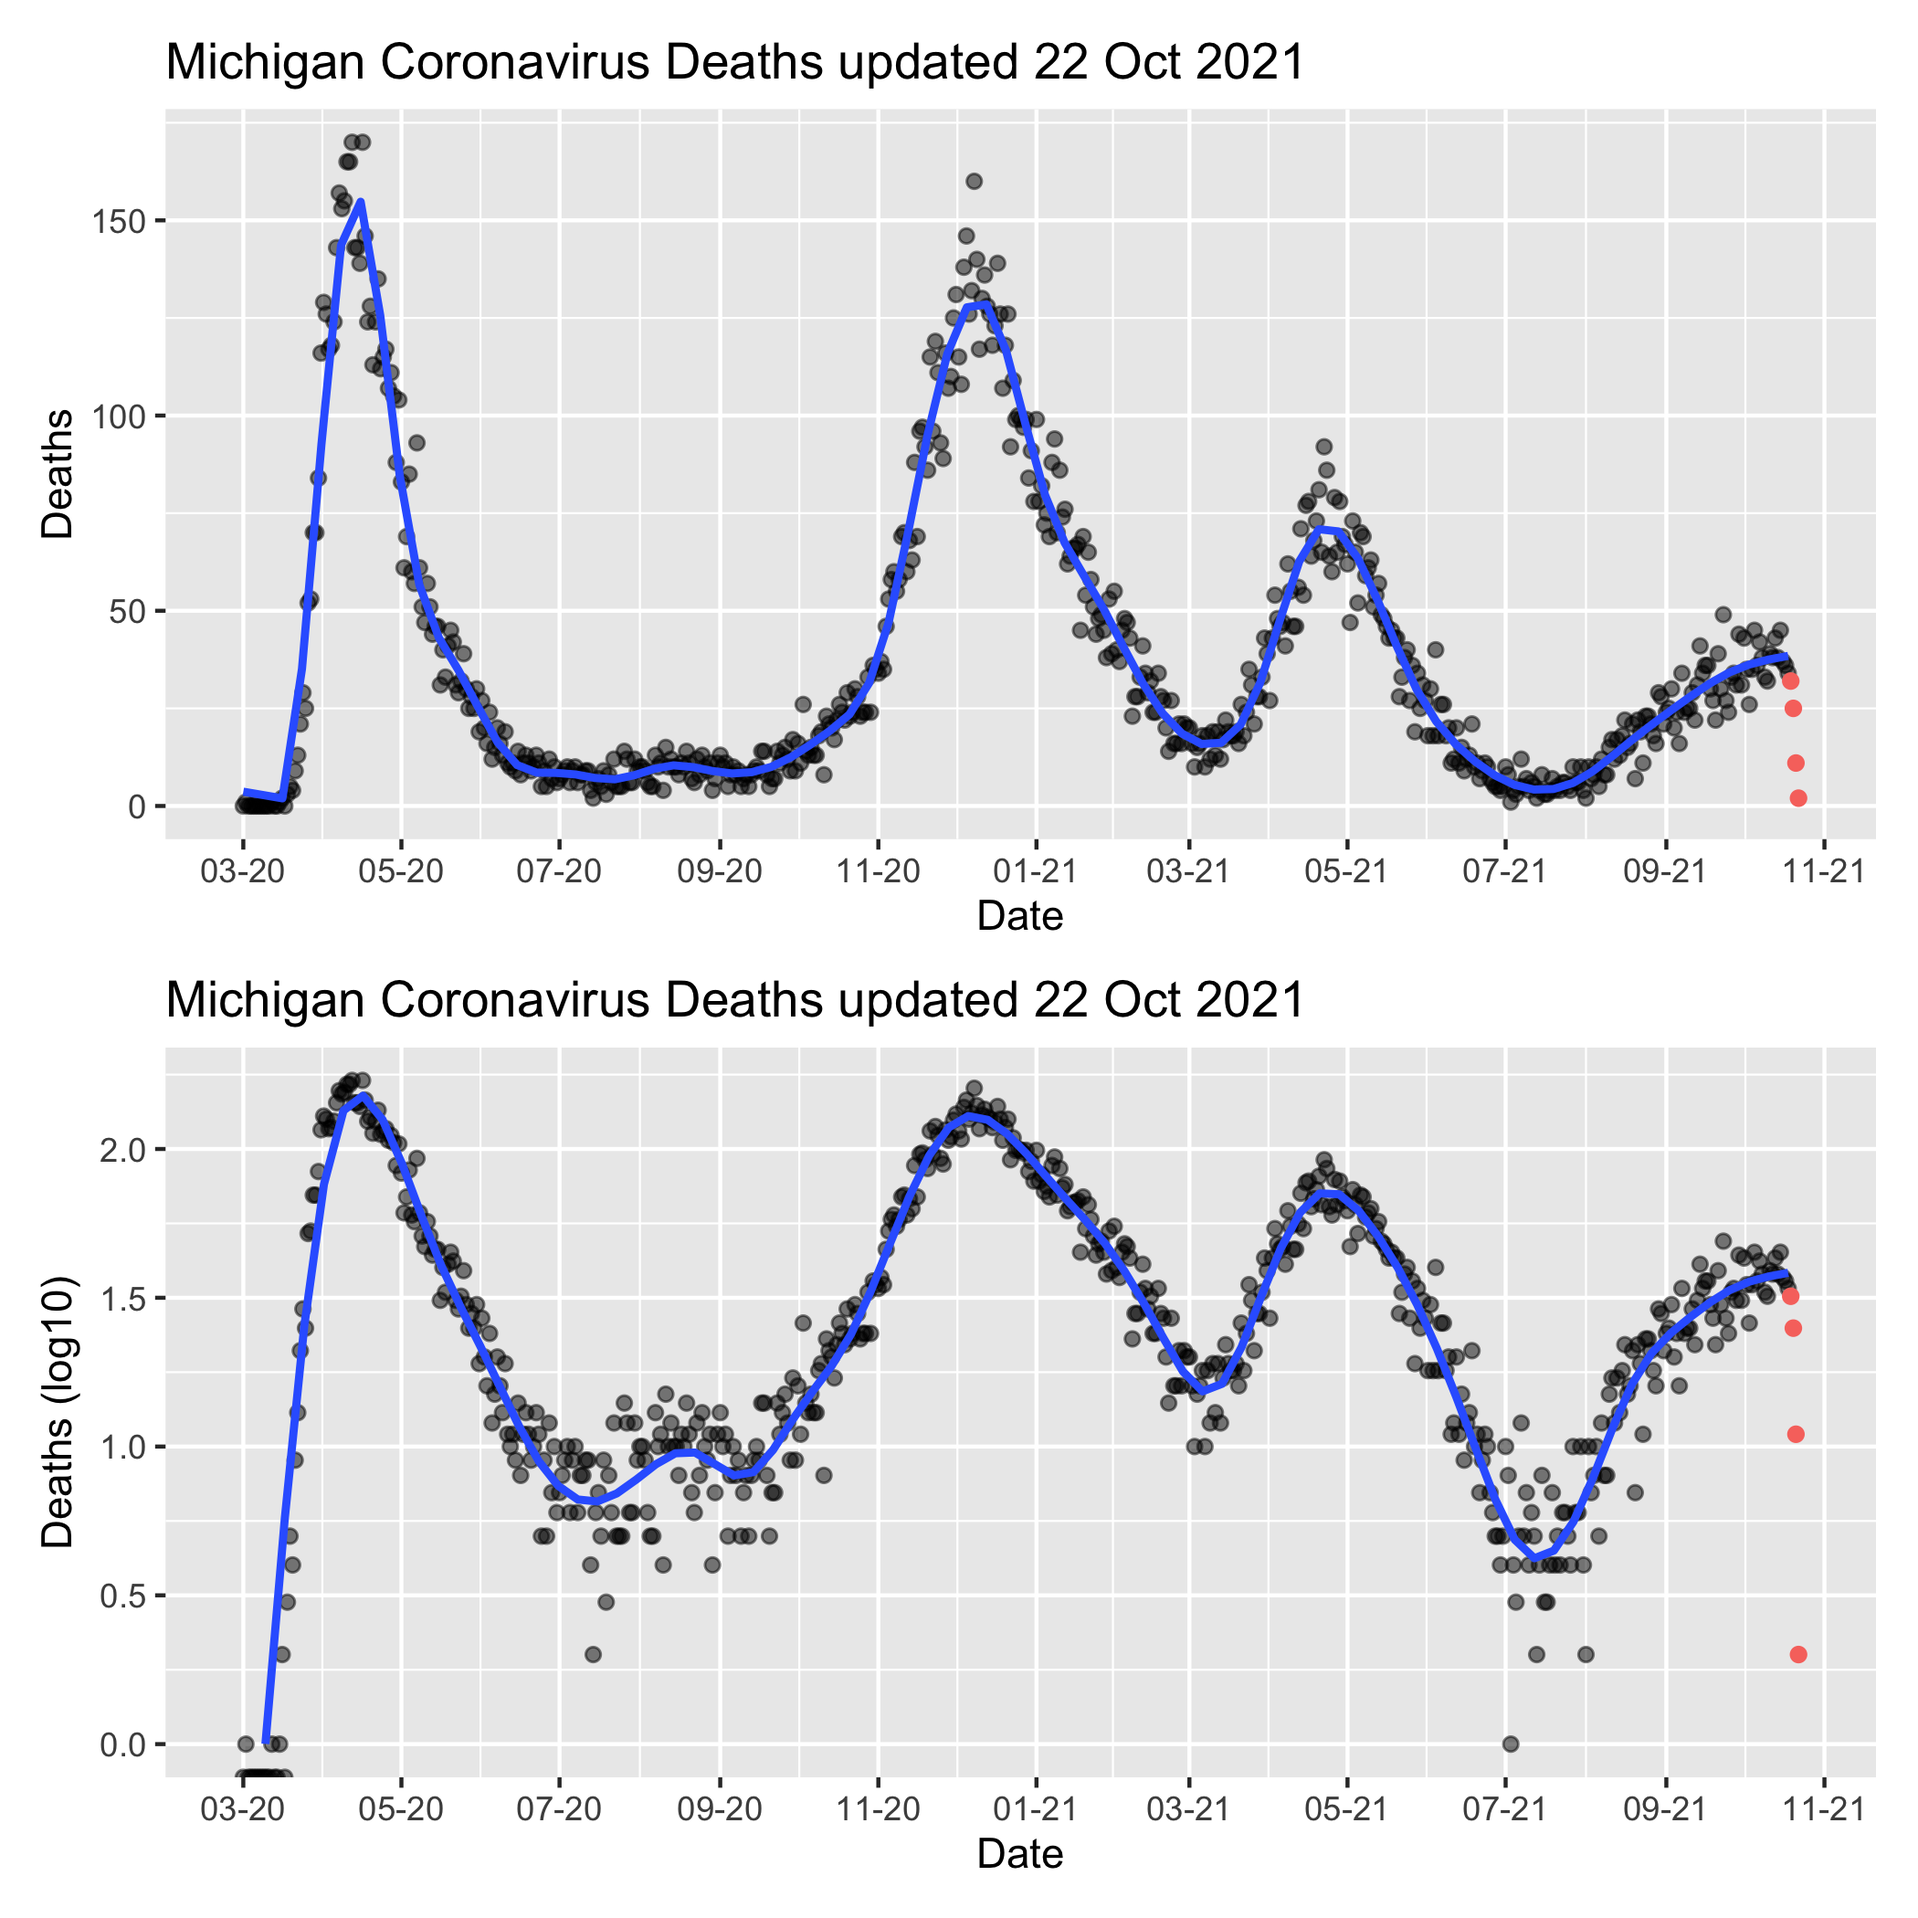
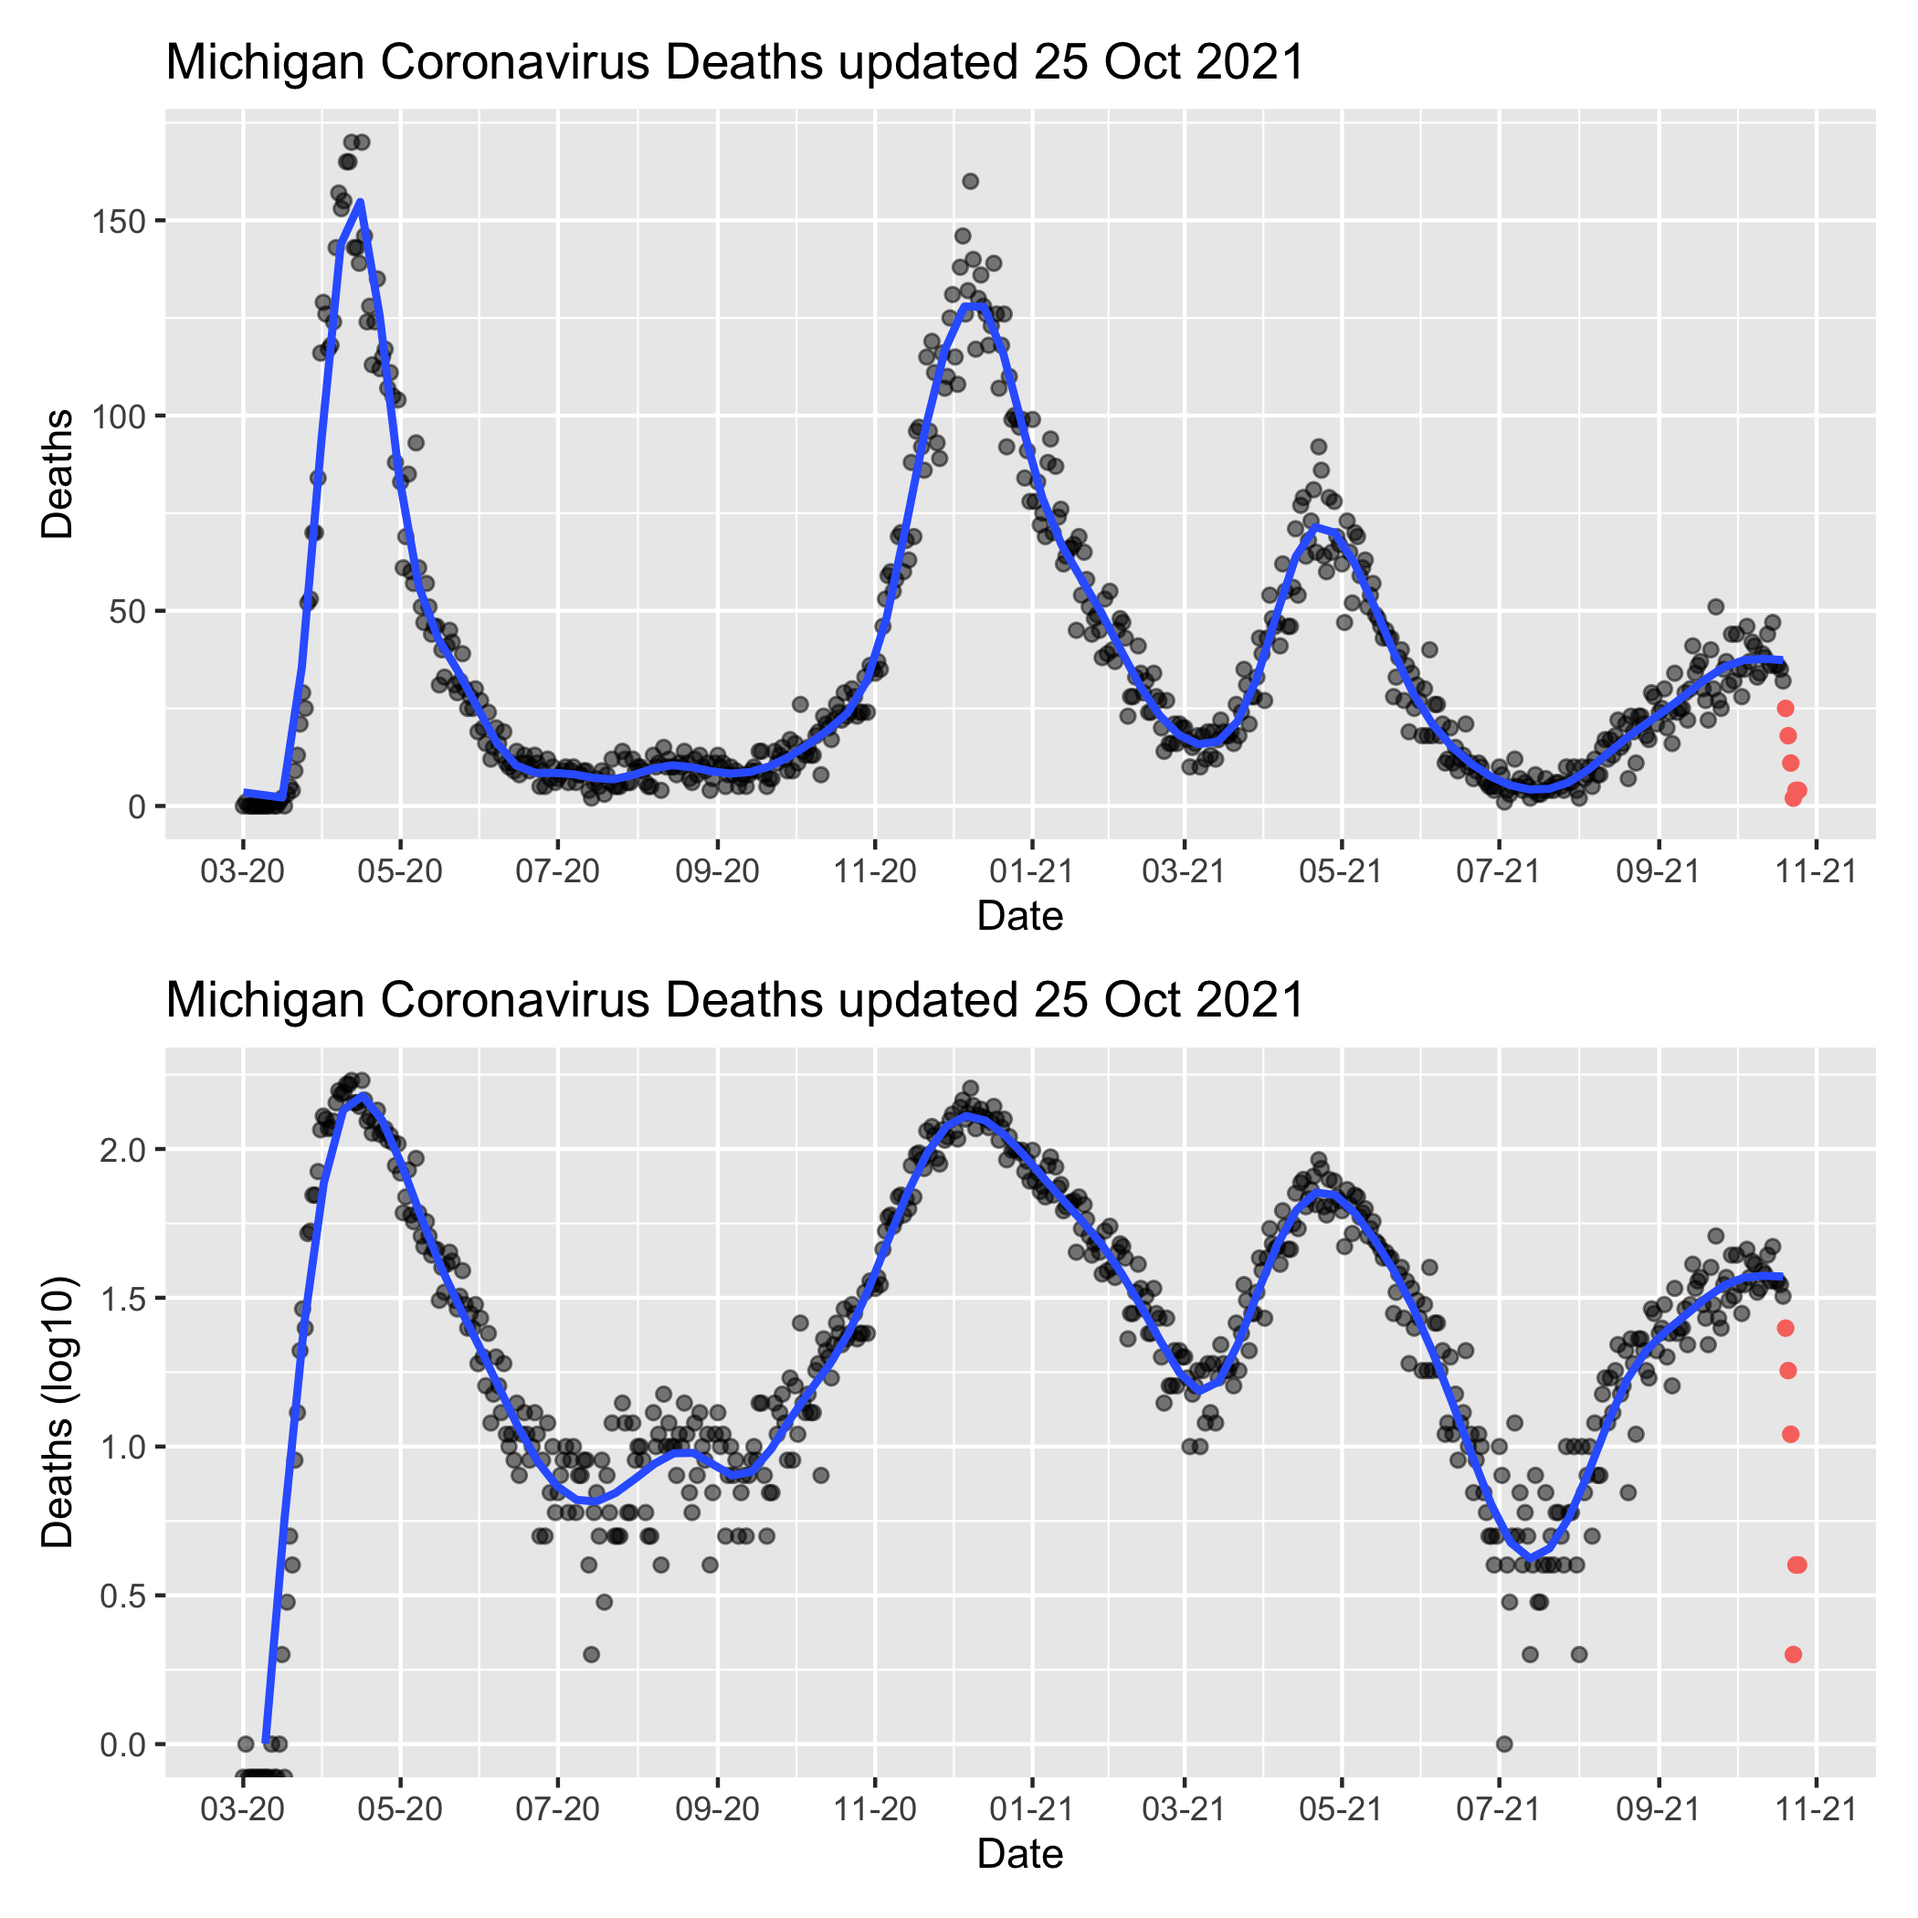
Oct-26 2021 11:59 update

diff --git a/MiCorona.md b/MiCorona.md
@@ -1,7 +1,7 @@
 Michigan COVID Data
 ================
 Adam D. DenHaan
-Oct 25, 2021
+Oct 26, 2021
 
 Get link for data:
 
@@ -48,11 +48,11 @@ mi_data.head()
     ## 4  Alcona 2020-03-05   Confirmed    0.0     0.0               0.0   
     ## 
     ##    Deaths.Cumulative                       Updated  
-    ## 0                0.0 2021-10-22 14:04:59.723599872  
-    ## 1                0.0 2021-10-22 14:04:59.723599872  
-    ## 2                0.0 2021-10-22 14:04:59.723599872  
-    ## 3                0.0 2021-10-22 14:04:59.723599872  
-    ## 4                0.0 2021-10-22 14:04:59.723599872
+    ## 0                0.0 2021-10-25 13:47:19.625499904  
+    ## 1                0.0 2021-10-25 13:47:19.625499904  
+    ## 2                0.0 2021-10-25 13:47:19.625499904  
+    ## 3                0.0 2021-10-25 13:47:19.625499904  
+    ## 4                0.0 2021-10-25 13:47:19.625499904
 
 ``` python
 max_date = max(mi_data["Updated"])
@@ -135,7 +135,7 @@ viz_function(mi_cases_by_day_exclusive, mi_cases_by_day_last4, Date, Deaths, ver
 
 ![](MiCorona_files/figure-gfm/viz2-1.png)<!-- -->
 
-Note that the last 4 days of data have been colored red on the graph, as
+Note that the last 6 days of data have been colored red on the graph, as
 they frequently change as more information becomes available. Vertical
 orange line at 4 weeks in the past (as hospitalizations and deaths
 usually follow cases by three weeks, and the deaths graph regression
